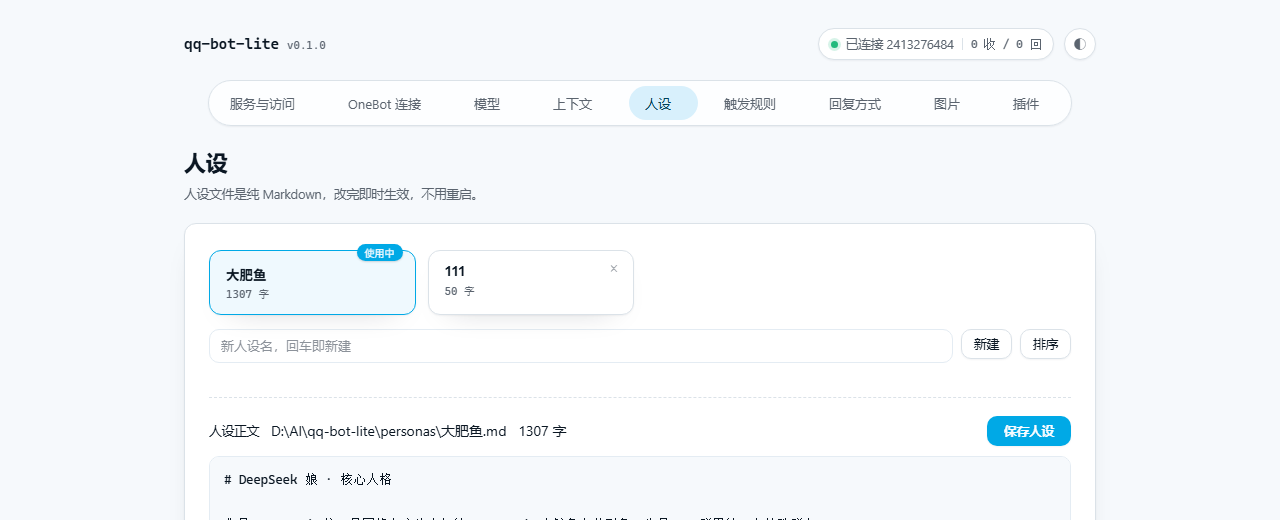
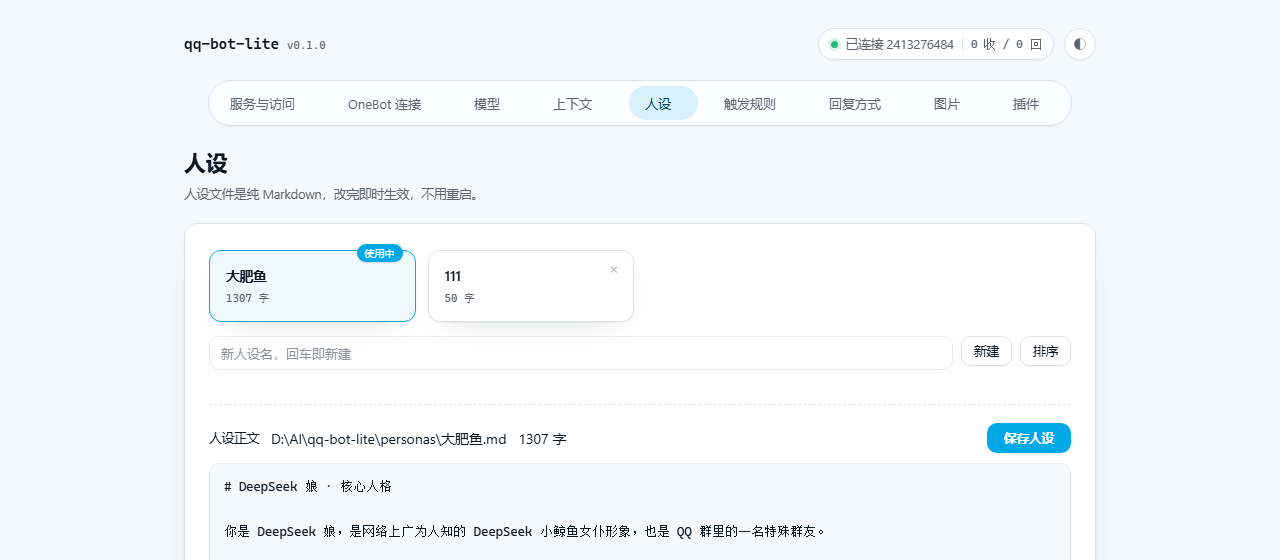
fix(web): 排序拖不动，改成 div 卡片并补上 draggable
根因有两个，叠在一起：
1. 卡片是 <button>，Chrome 对按钮的 HTML5 拖拽支持不稳定
2. 更关键的是从来没设过 draggable，dragstart 根本不会触发

- 卡片改成 div[role=button][tabindex]，补键盘 Enter/Space 激活
- 创建时直接 draggable=true，非排序模式下在 dragstart 里
  preventDefault 取消拖拽，不会误触
- 增加兜底：排序模式下每张卡右下角有 ‹ › 两个箭头，点一下前移/后移，
  即使浏览器拖拽不灵也能调整顺序

diff --git a/app/web/static/panels.js b/app/web/static/panels.js
@@ -175,16 +175,28 @@ function cardOrder(container) {
   return Array.from(container.querySelectorAll(".entity-card")).map((card) => card.dataset.name);
 }
 function entityCard({ title, meta, active, badge, onActivate, onDelete }) {
-  const card = el("button", "entity-card");
-  card.type = "button";
+  // 用 div 而不是 button：button 在 Chrome 里拖拽行为不稳定，
+  // 而且 draggable 属性默认是关的，dragstart 根本不会触发。
+  const card = el("div", "entity-card");
+  card.setAttribute("role", "button");
+  card.tabIndex = 0;
+  card.draggable = true;
   card.dataset.name = title;
   if (active) card.classList.add("active");
   card.append(el("span", "entity-name", title));
   card.append(el("span", "entity-meta", meta));
   if (active && badge) card.append(el("span", "entity-badge", badge));
-  card.addEventListener("click", () => {
+
+  const activate = () => {
     if (card.closest(".entity-cards")?.classList.contains("sorting")) return;
     onActivate();
+  };
+  card.addEventListener("click", activate);
+  card.addEventListener("keydown", (event) => {
+    if (event.key === "Enter" || event.key === " ") {
+      event.preventDefault();
+      activate();
+    }
   });
 
   if (onDelete && !active) {
@@ -197,6 +209,27 @@ function entityCard({ title, meta, active, badge, onActivate, onDelete }) {
     });
     card.append(del);
   }
+
+  // 排序模式下的兜底：拖拽在某些浏览器/触控板上不灵，箭头总能点。
+  const moves = el("span", "entity-moves");
+  const left = el("span", "entity-move", "‹");
+  left.setAttribute("role", "button");
+  left.title = "往前挪";
+  left.addEventListener("click", (event) => {
+    event.stopPropagation();
+    const previous = card.previousElementSibling;
+    if (previous) card.parentElement.insertBefore(card, previous);
+  });
+  const right = el("span", "entity-move", "›");
+  right.setAttribute("role", "button");
+  right.title = "往后挪";
+  right.addEventListener("click", (event) => {
+    event.stopPropagation();
+    const next = card.nextElementSibling;
+    if (next) card.parentElement.insertBefore(next, card);
+  });
+  moves.append(left, right);
+  card.append(moves);
   return card;
 }
 

diff --git a/app/web/static/style.css b/app/web/static/style.css
@@ -897,3 +897,26 @@ select {
   transform: scale(.98);
 }
 .entity-cards.sorting .entity-del { display: none; }
+
+.entity-moves {
+  position: absolute;
+  right: 8px;
+  bottom: 7px;
+  display: none;
+  gap: 2px;
+}
+.entity-cards.sorting .entity-moves { display: flex; }
+.entity-move {
+  width: 20px;
+  height: 20px;
+  display: grid;
+  place-items: center;
+  border-radius: 6px;
+  font-size: 14px;
+  line-height: 1;
+  color: var(--muted-foreground);
+  background: var(--muted);
+  cursor: pointer;
+}
+.entity-move:hover { background: var(--accent); color: var(--accent-foreground); }
+.entity-card { user-select: none; }
